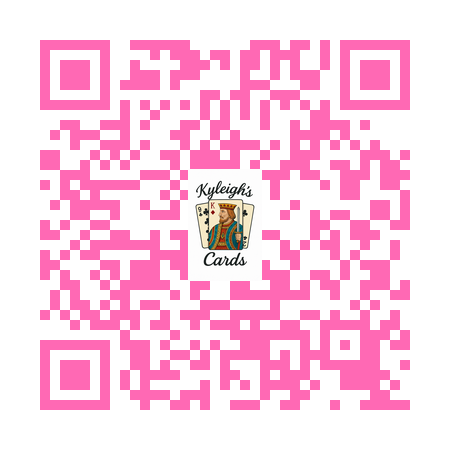
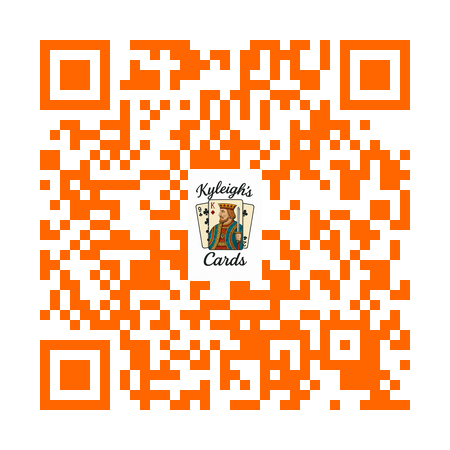
Add status messages config, watchOut sound, orange QR code
- Extracted all status box messages to this.messages object for easy customization
- Added playWatchOut() sound effect (two quick rising alert beeps)
- Changed QR code from pink to orange (#FF6600)
- Updated share button SVG icon to match orange theme
- Updated share button border color to orange
- Updated SOUND_EFFECTS.md documentation

🤖 Generated with [Claude Code](https://claude.com/claude-code)

diff --git a/game.js b/game.js
@@ -334,6 +334,36 @@ class SoundManager {
             osc.stop(startTime + 0.5);
         });
     }
+
+    // Play "Watch out!" alert sound (quick warning beeps)
+    playWatchOut() {
+        if (!this.enabled || !this.audioContext) return;
+        this.resume();
+
+        // Two quick alert beeps - rising then falling
+        const beeps = [
+            { freq: 880, time: 0 },      // A5
+            { freq: 1100, time: 0.1 }    // C#6 (higher)
+        ];
+
+        beeps.forEach(({ freq, time }) => {
+            const osc = this.audioContext.createOscillator();
+            const gain = this.audioContext.createGain();
+
+            osc.connect(gain);
+            gain.connect(this.audioContext.destination);
+
+            osc.frequency.value = freq;
+            osc.type = 'square';
+
+            const startTime = this.audioContext.currentTime + time;
+            gain.gain.setValueAtTime(0.08, startTime);
+            gain.gain.exponentialRampToValueAtTime(0.01, startTime + 0.08);
+
+            osc.start(startTime);
+            osc.stop(startTime + 0.08);
+        });
+    }
 }
 
 // Global sound manager instance
@@ -1600,6 +1630,22 @@ class PushGame {
             hintsAndTips: true     // Show fun hints during special moments
         };
 
+        // Status messages (for easy customization)
+        this.messages = {
+            clickPile: "Click a pile to play your card!",
+            yourTurn: "Your turn!",
+            opponentTurn: "{name}'s turn...",
+            opponentThinking: "Opponent is thinking...",
+            opponentPlayed: "Opponent played {card}",
+            youGotJacked: "You got JACKED! Opponent takes the pile!",
+            opponentGotJacked: "You got JACKED! You take the pile!",
+            specialOnSpecialYou: "Special on special! You take the pile!",
+            specialOnSpecialOpp: "Special on special! Opponent takes the pile.",
+            pushYouTake: "PUSH! You take the pile!",
+            pushOppTake: "PUSH! Opponent takes the pile!",
+            watchOut: "Watch out!"
+        };
+
         // For Expert mode status display
         this.lastExpertRule = '';
 
@@ -1934,7 +1980,7 @@ class PushGame {
         this.renderPilesHTML();
         this.renderPiles();
         this.updateUI();
-        this.setStatus(this.isMyTurn ? 'Your turn!' : `${opponentName}'s turn...`);
+        this.setStatus(this.isMyTurn ? this.messages.yourTurn : this.messages.opponentTurn.replace('{name}', opponentName));
 
         if (this.isMyTurn) {
             this.drawCard();
@@ -2531,7 +2577,7 @@ class PushGame {
         this.currentCard = this.playerDeck.pop();
         this.renderCurrentCard();
         this.updateUI();
-        this.setStatus("Click a pile to play your card!");
+        this.setStatus(this.messages.clickPile);
         this.highlightPiles(true);
     }
 
@@ -2582,7 +2628,7 @@ class PushGame {
                 if (card.rank === 'J' && topCard.rank === 'J' && this.settings.jackOnJack) {
                     // Jack on Jack = the OTHER player takes pile (JACKED!)
                     this.showPushPopup('JACKED!');
-                    this.setStatus(isPlayer ? "You got JACKED! Opponent takes the pile!" : "You got JACKED! You take the pile!");
+                    this.setStatus(isPlayer ? this.messages.youGotJacked : this.messages.opponentGotJacked);
 
                     setTimeout(() => {
                         // isPlayer played Jack on Jack, so opponent takes pile
@@ -2595,7 +2641,7 @@ class PushGame {
                 // Special on special = YOU take the pile (penalty PUSH!)
                 // (This also handles Jack on Jack when setting is OFF)
                 this.showPushPopup();
-                this.setStatus(isPlayer ? "Special on special! You take the pile!" : "Special on special! Opponent takes the pile.");
+                this.setStatus(isPlayer ? this.messages.specialOnSpecialYou : this.messages.specialOnSpecialOpp);
 
                 setTimeout(() => {
                     // isPlayer played special on special, so isPlayer takes pile
@@ -2618,7 +2664,7 @@ class PushGame {
                 playedBy: playedBy
             };
             if (!isPlayer) {
-                this.setStatus(`Opponent played ${card.rank}${this.suitSymbols[card.suit]}`);
+                this.setStatus(this.messages.opponentPlayed.replace('{card}', `${card.rank}${this.suitSymbols[card.suit]}`));
             }
         } else if (pileState) {
             // Number card played on a pile with an active special card
@@ -2631,7 +2677,7 @@ class PushGame {
                 this.renderPiles();
                 this.updateUI();
                 this.showPushPopup();
-                this.setStatus(isPlayer ? "PUSH! Opponent takes the pile!" : "PUSH! You take the pile!");
+                this.setStatus(isPlayer ? this.messages.pushOppTake : this.messages.pushYouTake);
 
                 setTimeout(() => {
                     // Third param: isPlayer just played, so pass isPlayer
@@ -2639,10 +2685,10 @@ class PushGame {
                 }, 1500);
                 return;
             } else if (!isPlayer) {
-                this.setStatus(`Opponent played ${card.rank}${this.suitSymbols[card.suit]}`);
+                this.setStatus(this.messages.opponentPlayed.replace('{card}', `${card.rank}${this.suitSymbols[card.suit]}`));
             }
         } else if (!isPlayer) {
-            this.setStatus(`Opponent played ${card.rank}${this.suitSymbols[card.suit]}`);
+            this.setStatus(this.messages.opponentPlayed.replace('{card}', `${card.rank}${this.suitSymbols[card.suit]}`));
         }
 
         this.renderPiles();
@@ -3284,14 +3330,14 @@ class PushGame {
                 this.isMyTurn = false;
                 this.isPlayerTurn = false;
                 const oppName = this.multiplayer.opponentUsername || 'Opponent';
-                this.setStatus(`${oppName}'s turn...`);
+                this.setStatus(this.messages.opponentTurn.replace('{name}', oppName));
                 // Don't call opponentTurn() - wait for Firebase update
             } else {
                 // Opponent just finished, my turn
                 this.currentTurnPlayer = 'player';
                 this.isMyTurn = true;
                 this.isPlayerTurn = true;
-                this.setStatus('Your turn!');
+                this.setStatus(this.messages.yourTurn);
                 setTimeout(() => this.drawCard(), 300);
             }
         } else {
@@ -3300,7 +3346,7 @@ class PushGame {
                 // Player just finished, opponent's turn
                 this.currentTurnPlayer = 'opponent';
                 this.isPlayerTurn = false;
-                this.setStatus("Opponent is thinking...");
+                this.setStatus(this.messages.opponentThinking);
                 setTimeout(() => this.opponentTurn(), 300);
             } else {
                 // Opponent just finished, player's turn

diff --git a/index.html b/index.html
@@ -55,13 +55,13 @@
         <button class="btn share-btn" id="share-btn" title="Share">
             <svg viewBox="0 0 7 7" width="16" height="16">
                 <rect x="0" y="0" width="7" height="7" fill="white"/>
-                <rect x="0" y="0" width="1" height="1" fill="#FF69B4"/><rect x="2" y="0" width="1" height="1" fill="#FF69B4"/><rect x="4" y="0" width="1" height="1" fill="#FF69B4"/><rect x="6" y="0" width="1" height="1" fill="#FF69B4"/>
-                <rect x="1" y="1" width="1" height="1" fill="#FF69B4"/><rect x="3" y="1" width="1" height="1" fill="#FF69B4"/><rect x="5" y="1" width="1" height="1" fill="#FF69B4"/>
-                <rect x="0" y="2" width="1" height="1" fill="#FF69B4"/><rect x="2" y="2" width="1" height="1" fill="#FF69B4"/><rect x="5" y="2" width="1" height="1" fill="#FF69B4"/><rect x="6" y="2" width="1" height="1" fill="#FF69B4"/>
-                <rect x="1" y="3" width="1" height="1" fill="#FF69B4"/><rect x="4" y="3" width="1" height="1" fill="#FF69B4"/><rect x="6" y="3" width="1" height="1" fill="#FF69B4"/>
-                <rect x="0" y="4" width="1" height="1" fill="#FF69B4"/><rect x="3" y="4" width="1" height="1" fill="#FF69B4"/><rect x="5" y="4" width="1" height="1" fill="#FF69B4"/>
-                <rect x="1" y="5" width="1" height="1" fill="#FF69B4"/><rect x="2" y="5" width="1" height="1" fill="#FF69B4"/><rect x="4" y="5" width="1" height="1" fill="#FF69B4"/><rect x="6" y="5" width="1" height="1" fill="#FF69B4"/>
-                <rect x="0" y="6" width="1" height="1" fill="#FF69B4"/><rect x="3" y="6" width="1" height="1" fill="#FF69B4"/><rect x="5" y="6" width="1" height="1" fill="#FF69B4"/>
+                <rect x="0" y="0" width="1" height="1" fill="#FF6600"/><rect x="2" y="0" width="1" height="1" fill="#FF6600"/><rect x="4" y="0" width="1" height="1" fill="#FF6600"/><rect x="6" y="0" width="1" height="1" fill="#FF6600"/>
+                <rect x="1" y="1" width="1" height="1" fill="#FF6600"/><rect x="3" y="1" width="1" height="1" fill="#FF6600"/><rect x="5" y="1" width="1" height="1" fill="#FF6600"/>
+                <rect x="0" y="2" width="1" height="1" fill="#FF6600"/><rect x="2" y="2" width="1" height="1" fill="#FF6600"/><rect x="5" y="2" width="1" height="1" fill="#FF6600"/><rect x="6" y="2" width="1" height="1" fill="#FF6600"/>
+                <rect x="1" y="3" width="1" height="1" fill="#FF6600"/><rect x="4" y="3" width="1" height="1" fill="#FF6600"/><rect x="6" y="3" width="1" height="1" fill="#FF6600"/>
+                <rect x="0" y="4" width="1" height="1" fill="#FF6600"/><rect x="3" y="4" width="1" height="1" fill="#FF6600"/><rect x="5" y="4" width="1" height="1" fill="#FF6600"/>
+                <rect x="1" y="5" width="1" height="1" fill="#FF6600"/><rect x="2" y="5" width="1" height="1" fill="#FF6600"/><rect x="4" y="5" width="1" height="1" fill="#FF6600"/><rect x="6" y="5" width="1" height="1" fill="#FF6600"/>
+                <rect x="0" y="6" width="1" height="1" fill="#FF6600"/><rect x="3" y="6" width="1" height="1" fill="#FF6600"/><rect x="5" y="6" width="1" height="1" fill="#FF6600"/>
             </svg>
         </button>
 
@@ -231,7 +231,7 @@
                     </div>
                 </div>
                 <p class="settings-note">Changes take effect on New Game</p>
-                <p class="build-info">Build: Dec 13, 11:45 AM</p>
+                <p class="build-info">Build: Dec 13, 12:15 PM</p>
             </div>
         </div>
 

diff --git a/styles.css b/styles.css
@@ -569,11 +569,11 @@ header h1 {
     display: flex;
     align-items: center;
     justify-content: center;
-    border: 2px solid #FF69B4;
+    border: 2px solid #FF6600;
 }
 
 .share-btn:hover {
-    background: #fff5f9;
+    background: #fff8f0;
     transform: scale(1.1);
 }
 

diff --git a/SOUND_EFFECTS.md b/SOUND_EFFECTS.md
@@ -13,6 +13,7 @@ All sounds are generated using the Web Audio API - no external sound files neede
 | Each card flying | `playCardFlip()` | Short percussive click |
 | Player plays card | `playCardPlay()` | Soft subtle tone (600Hz, very quiet) |
 | Opponent plays card | `playOpponentCard()` | Even softer tone (500Hz, barely audible) |
+| Watch out! | `playWatchOut()` | Quick alert beeps (two rising tones) |
 | UI click | `playClick()` | Simple UI click sound |
 | New Game button | `playClick()` | Simple UI click sound |
 | Mode selection | `playClick()` | Simple UI click sound |
@@ -41,4 +42,5 @@ soundManager.playShuffle()    // Card shuffle
 soundManager.playCardFlip()   // Individual card sound
 soundManager.playWin()        // Victory sound
 soundManager.playLose()       // Defeat sound
+soundManager.playWatchOut()   // Warning alert beeps
 ```
